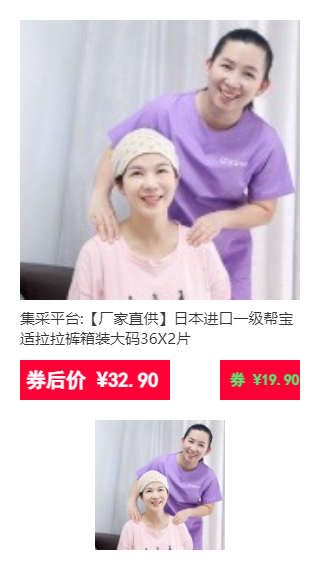
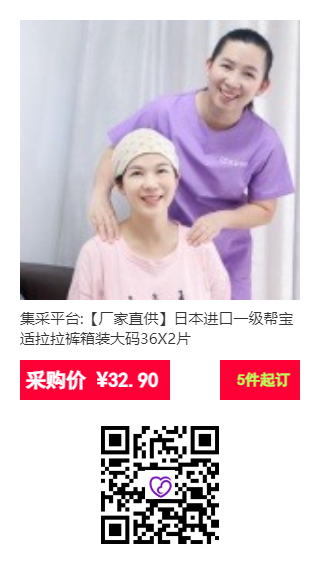
++++

Changed region(s): [[0.2812, 0.7138, 0.7188, 0.9621], [0.7188, 0.6207, 0.9375, 0.6828], [0.0625, 0.6207, 0.2188, 0.6828]]

diff --git a/html/poster_商品海报/poster_feng.js b/html/poster_商品海报/poster_feng.js
@@ -1,125 +1,115 @@
-
-    var api = {
-        make: function(c,img_product,img_qrcode) {
-            var cxt = c.getContext("2d"); // 创建context对象
-
-            // 设置myCanvas的宽高
-            c.width = 320; //设置myCanvas的宽
-            c.height = 580; //设置myCanvas的高
-
-            // 绘制一个矩形，用来做全局背景颜色
-            cxt.fillStyle = "#fff"; // fillStyle方法将其染成红色
-            cxt.fillRect(0, 0, c.width, c.height); // fillRect方法是创建一个矩形，x坐标、y坐标、宽度、高度
-
-            // 把图片绘制到myCanvas
-            var img = new Image()
-            img.src = img_product // 图片路径
-
-            // 为了防止图片还没加载完成就执行drawImage，需要延迟10ms再执行drawImage
-            setTimeout(function() {
-                cxt.drawImage(img, 20, 20, 280, 280);
-            }, 10)
-
-            // 绘制商品标题，自动换行
-            cxt.fillStyle = "#333";
-            cxt.font = "15px bold 黑体";
-            var str = "集采平台:【厂家直供】日本进口一级帮宝适拉拉裤箱装大码36X2片"
-            cxt.textBaseline = "middle";
-            cxt.textAlign = "left";
-            var lineWidth = 0;
-            var canvasWidth = 280; //一行文字占用的宽度
-            var initHeight = 320; //绘制字体距离canvas顶部初始的高度
-            var lastSubStrIndex = 0; //每次开始截取的字符串的索引
-            for (let i = 0; i < str.length; i++) {
-                lineWidth += cxt.measureText(str[i]).width;
-                if (lineWidth > canvasWidth) {
-                    cxt.fillText(str.substring(lastSubStrIndex, i), 20, initHeight); //绘制截取部分
-                    initHeight += 20; //20为字体的高度
-                    lineWidth = 0;
-                    lastSubStrIndex = i;
-                }
-                if (i == str.length - 1) { //绘制剩余部分
-                    cxt.fillText(str.substring(lastSubStrIndex, i + 1), 20, initHeight);
-                }
+var api = {
+    make: function(c, img_product, img_qrcode) {
+        var cxt = c.getContext("2d"); // 创建context对象
+        // 设置myCanvas的宽高
+        c.width = 320; //设置myCanvas的宽
+        c.height = 580; //设置myCanvas的高
+        // 绘制一个矩形，用来做全局背景颜色
+        cxt.fillStyle = "#fff"; // fillStyle方法将其染成红色
+        cxt.fillRect(0, 0, c.width, c.height); // fillRect方法是创建一个矩形，x坐标、y坐标、宽度、高度
+        // 把图片绘制到myCanvas
+        var img = new Image()
+        img.src = img_product // 图片路径
+        // 为了防止图片还没加载完成就执行drawImage，需要延迟10ms再执行drawImage
+        setTimeout(function() {
+            cxt.drawImage(img, 20, 20, 280, 280);
+        }, 10)
+        // 绘制商品标题，自动换行
+        cxt.fillStyle = "#333";
+        cxt.font = "15px bold 黑体";
+        var str = "集采平台:【厂家直供】日本进口一级帮宝适拉拉裤箱装大码36X2片"
+        cxt.textBaseline = "middle";
+        cxt.textAlign = "left";
+        var lineWidth = 0;
+        var canvasWidth = 280; //一行文字占用的宽度
+        var initHeight = 320; //绘制字体距离canvas顶部初始的高度
+        var lastSubStrIndex = 0; //每次开始截取的字符串的索引
+        for (let i = 0; i < str.length; i++) {
+            lineWidth += cxt.measureText(str[i]).width;
+            if (lineWidth > canvasWidth) {
+                cxt.fillText(str.substring(lastSubStrIndex, i), 20, initHeight); //绘制截取部分
+                initHeight += 20; //20为字体的高度
+                lineWidth = 0;
+                lastSubStrIndex = i;
             }
-
-            // 绘制券后价底部背景色
-            cxt.fillStyle = "#ff0036"; // fillStyle方法将其染成红色
-            cxt.fillRect(220, 360, 80, 40); // fillRect方法是创建一个矩形，x坐标、y坐标、宽度、高度
-
-            // 绘制券底部背景色
-            cxt.fillStyle = "#ff0036"; // fillStyle方法将其染成红色
-            cxt.fillRect(20, 360, 150, 40); // fillRect方法是创建一个矩形，x坐标、y坐标、宽度、高度
-
-            // 绘制价格
-            cxt.fillStyle = "#fff";
-            cxt.font = "normal bold 20px 黑体";
-            var str_price = "券后价 ¥32.90"
-            cxt.textBaseline = "middle";
-            cxt.textAlign = "left";
-            cxt.fillText(str_price, 26, 380);
-
-            // 绘制券面值
-            cxt.fillStyle = "#52f374f2";
-            cxt.font = "normal bold 15px 黑体";
-            var str_quan = "券 ¥19.90"
-            cxt.textBaseline = "middle";
-            cxt.textAlign = "left";
-            cxt.fillText(str_quan, 230, 380);
-
-            // 绘制二维码
-            var qrcode = new Image()
-            qrcode.src = img_qrcode // 二维码图片路径
-
-            // 为了防止图片还没加载完成就执行drawImage，需要延迟10ms再执行drawImage
-            setTimeout(function() {
-                cxt.drawImage(qrcode, 95, 420, 130, 130);
-                base64 = c.toDataURL("image/png");
-                console.log(base64);
-                api.download(base64);
-            }, 10)
-        },
-
-        download: function(imgUrl) {
-            // 如果浏览器支持msSaveOrOpenBlob方法（也就是使用IE浏览器的时候），那么调用该方法去下载图片
-            if (window.navigator.msSaveOrOpenBlob) {
-                var bstr = atob(imgUrl.split(',')[1])
-                var n = bstr.length
-                var u8arr = new Uint8Array(n)
-                while (n--) {
-                    u8arr[n] = bstr.charCodeAt(n)
-                }
-                var blob = new Blob([u8arr])
-                window.navigator.msSaveOrOpenBlob(blob, 'chart-download' + '.' + 'png')
-            } else {
-                // 这里就按照chrome等新版浏览器来处理
-                const a = document.createElement('a')
-                a.href = imgUrl
-                a.setAttribute('download', 'result')
-                a.click()
+            if (i == str.length - 1) { //绘制剩余部分
+                cxt.fillText(str.substring(lastSubStrIndex, i + 1), 20, initHeight);
             }
-        },
-        getBase64: function(url, callback) {
-            var Img = new Image(),
-                dataURL = '';
-            Img.src = url + '?v=' + Math.random();
-            Img.setAttribute('crossOrigin', 'Anonymous');
-            Img.onload = function() {
-                var canvas = document.createElement('canvas'),
-                    width = Img.width,
-                    height = Img.height;
-                canvas.width = width;
-                canvas.height = height;
-                canvas.getContext('2d').drawImage(Img, 0, 0, width, height);
-                dataURL = canvas.toDataURL('image/jpeg');
-                return callback ? callback(dataURL) : null;
-            };
-        },
-    }
-    var c = document.getElementById("myCanvas"); // 使用id来寻找canvas元素
-    var pic='https://upload.jjys168.com/jiajiamuying_upload/20220419/1650357863625e76670b28d.png@150h_150w_1e_1c';
-    api.getBase64(pic,function(r1){
-        console.log(pic,r1);
-        api.make(c,r1,r1);
+        }
+        // 绘制券后价底部背景色
+        cxt.fillStyle = "#ff0036"; // fillStyle方法将其染成红色
+        cxt.fillRect(220, 360, 80, 40); // fillRect方法是创建一个矩形，x坐标、y坐标、宽度、高度
+        // 绘制券底部背景色
+        cxt.fillStyle = "#ff0036"; // fillStyle方法将其染成红色
+        cxt.fillRect(20, 360, 150, 40); // fillRect方法是创建一个矩形，x坐标、y坐标、宽度、高度
+        // 绘制价格
+        cxt.fillStyle = "#fff";
+        cxt.font = "normal bold 20px 黑体";
+        var str_price = "采购价 ¥32.90"
+        cxt.textBaseline = "middle";
+        cxt.textAlign = "left";
+        cxt.fillText(str_price, 26, 380);
+        // 绘制券面值
+        cxt.fillStyle = "#bdfb59";
+        cxt.font = "normal bold 15px 黑体";
+        var str_quan = " 5件起订"
+        cxt.textBaseline = "middle";
+        cxt.textAlign = "left";
+        cxt.fillText(str_quan, 230, 380);
+        // 绘制二维码
+        var qrcode = new Image()
+        qrcode.src = img_qrcode // 二维码图片路径
+        // 为了防止图片还没加载完成就执行drawImage，需要延迟10ms再执行drawImage
+        setTimeout(function() {
+            cxt.drawImage(qrcode, 95, 420, 130, 130);
+            base64 = c.toDataURL("image/png");
+            console.log(base64);
+            api.download(base64);
+        }, 10)
+    },
+    download: function(imgUrl) {
+        // 如果浏览器支持msSaveOrOpenBlob方法（也就是使用IE浏览器的时候），那么调用该方法去下载图片
+        if (window.navigator.msSaveOrOpenBlob) {
+            var bstr = atob(imgUrl.split(',')[1])
+            var n = bstr.length
+            var u8arr = new Uint8Array(n)
+            while (n--) {
+                u8arr[n] = bstr.charCodeAt(n)
+            }
+            var blob = new Blob([u8arr])
+            window.navigator.msSaveOrOpenBlob(blob, 'chart-download' + '.' + 'png')
+        } else {
+            // 这里就按照chrome等新版浏览器来处理
+            const a = document.createElement('a')
+            a.href = imgUrl
+            a.setAttribute('download', 'result')
+            a.click()
+        }
+    },
+    getBase64: function(url, callback) {
+        var Img = new Image(),
+            dataURL = '';
+        Img.src = url + '?v=' + Math.random();
+        Img.setAttribute('crossOrigin', 'Anonymous');
+        Img.onload = function() {
+            var canvas = document.createElement('canvas'),
+                width = Img.width,
+                height = Img.height;
+            canvas.width = width;
+            canvas.height = height;
+            canvas.getContext('2d').drawImage(Img, 0, 0, width, height);
+            dataURL = canvas.toDataURL('image/jpeg');
+            return callback ? callback(dataURL) : null;
+        };
+    },
+}
+var c = document.getElementById("myCanvas"); // 使用id来寻找canvas元素
+var pic = 'https://upload.jjys168.com/jiajiamuying_upload/20220419/1650357863625e76670b28d.png@150h_150w_1e_1c';
+api.getBase64(pic, function(r1) {
+    console.log(pic, r1);
+    var pic_qrcode = "https://www.jjys168.com/a/qrcode?turl=m.ijiazhen.com";
+    api.getBase64(pic_qrcode, function(r2) {
+        api.make(c, r1, r2);
     });
-    // api.make(c,'imgdemo.jpg','qrcode.png');
+});
+// api.make(c,'imgdemo.jpg','qrcode.png');
